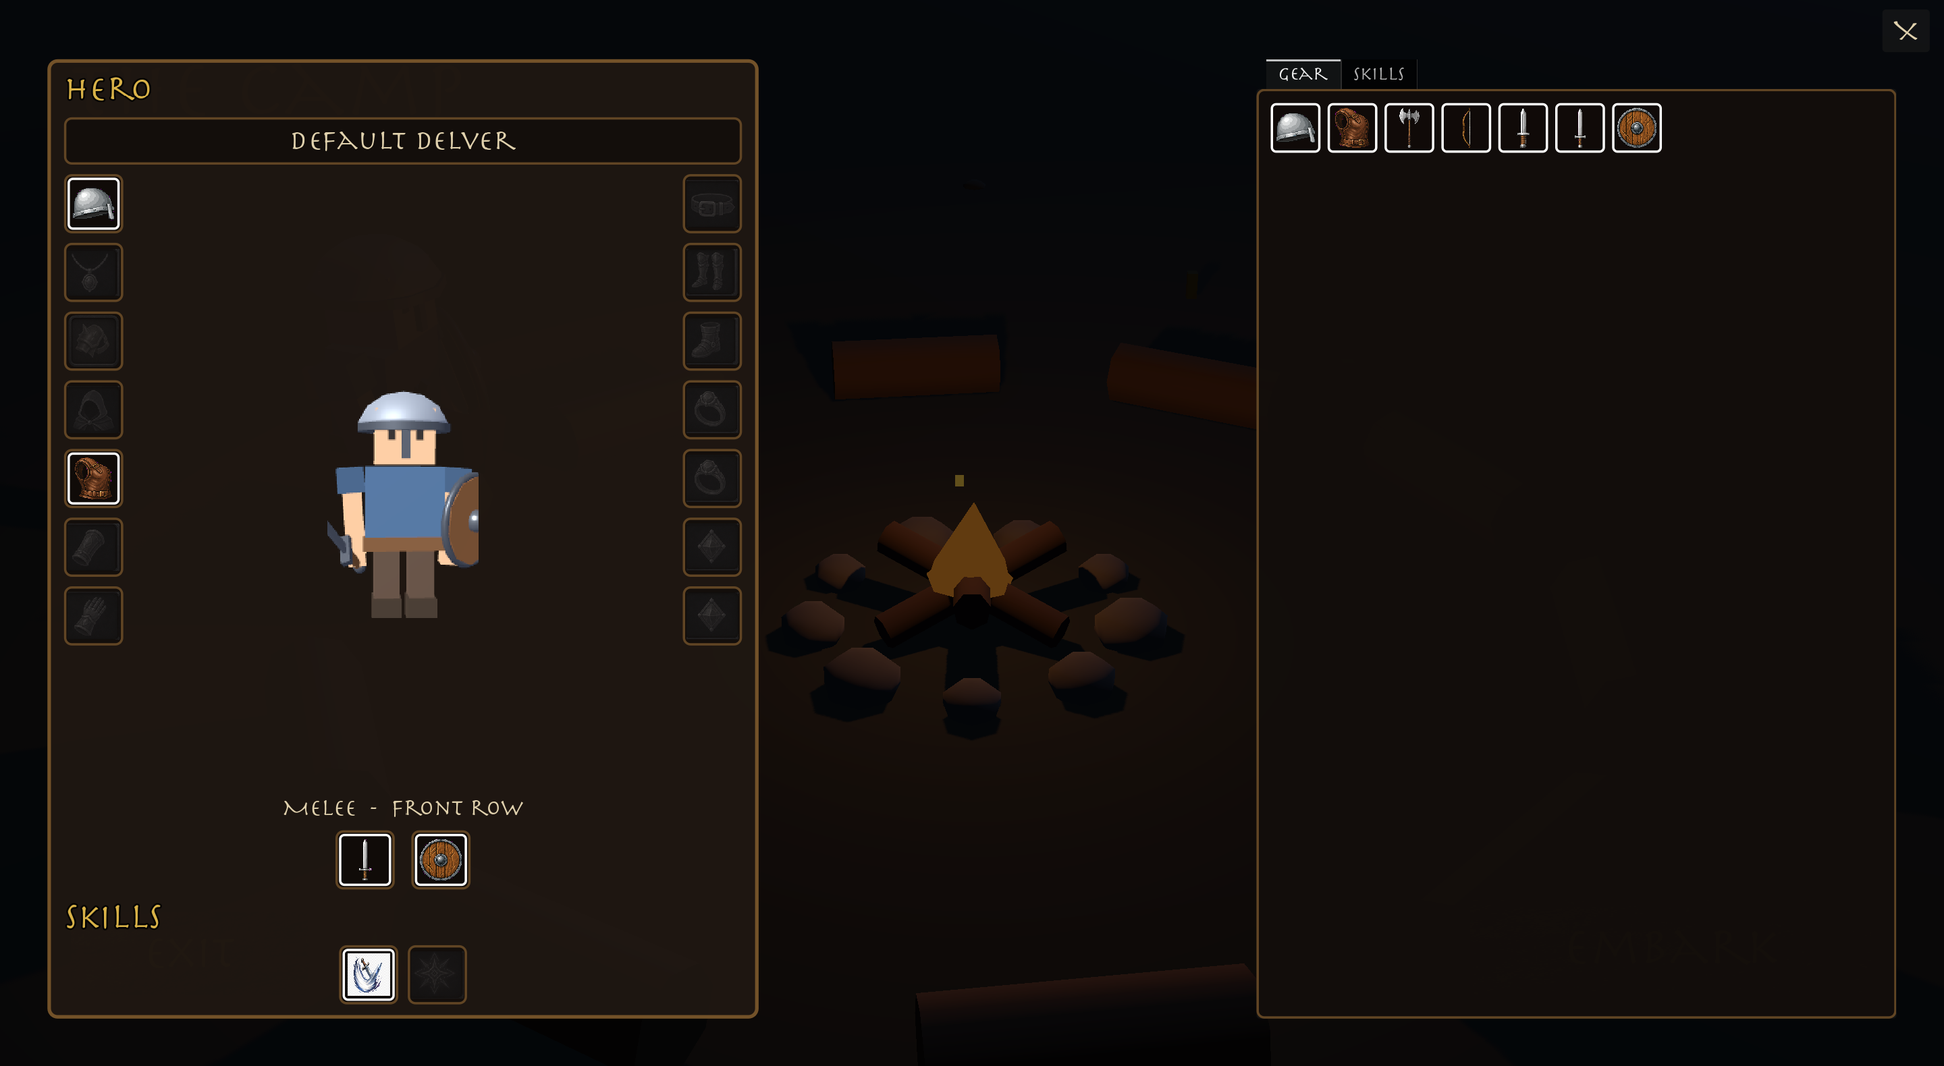
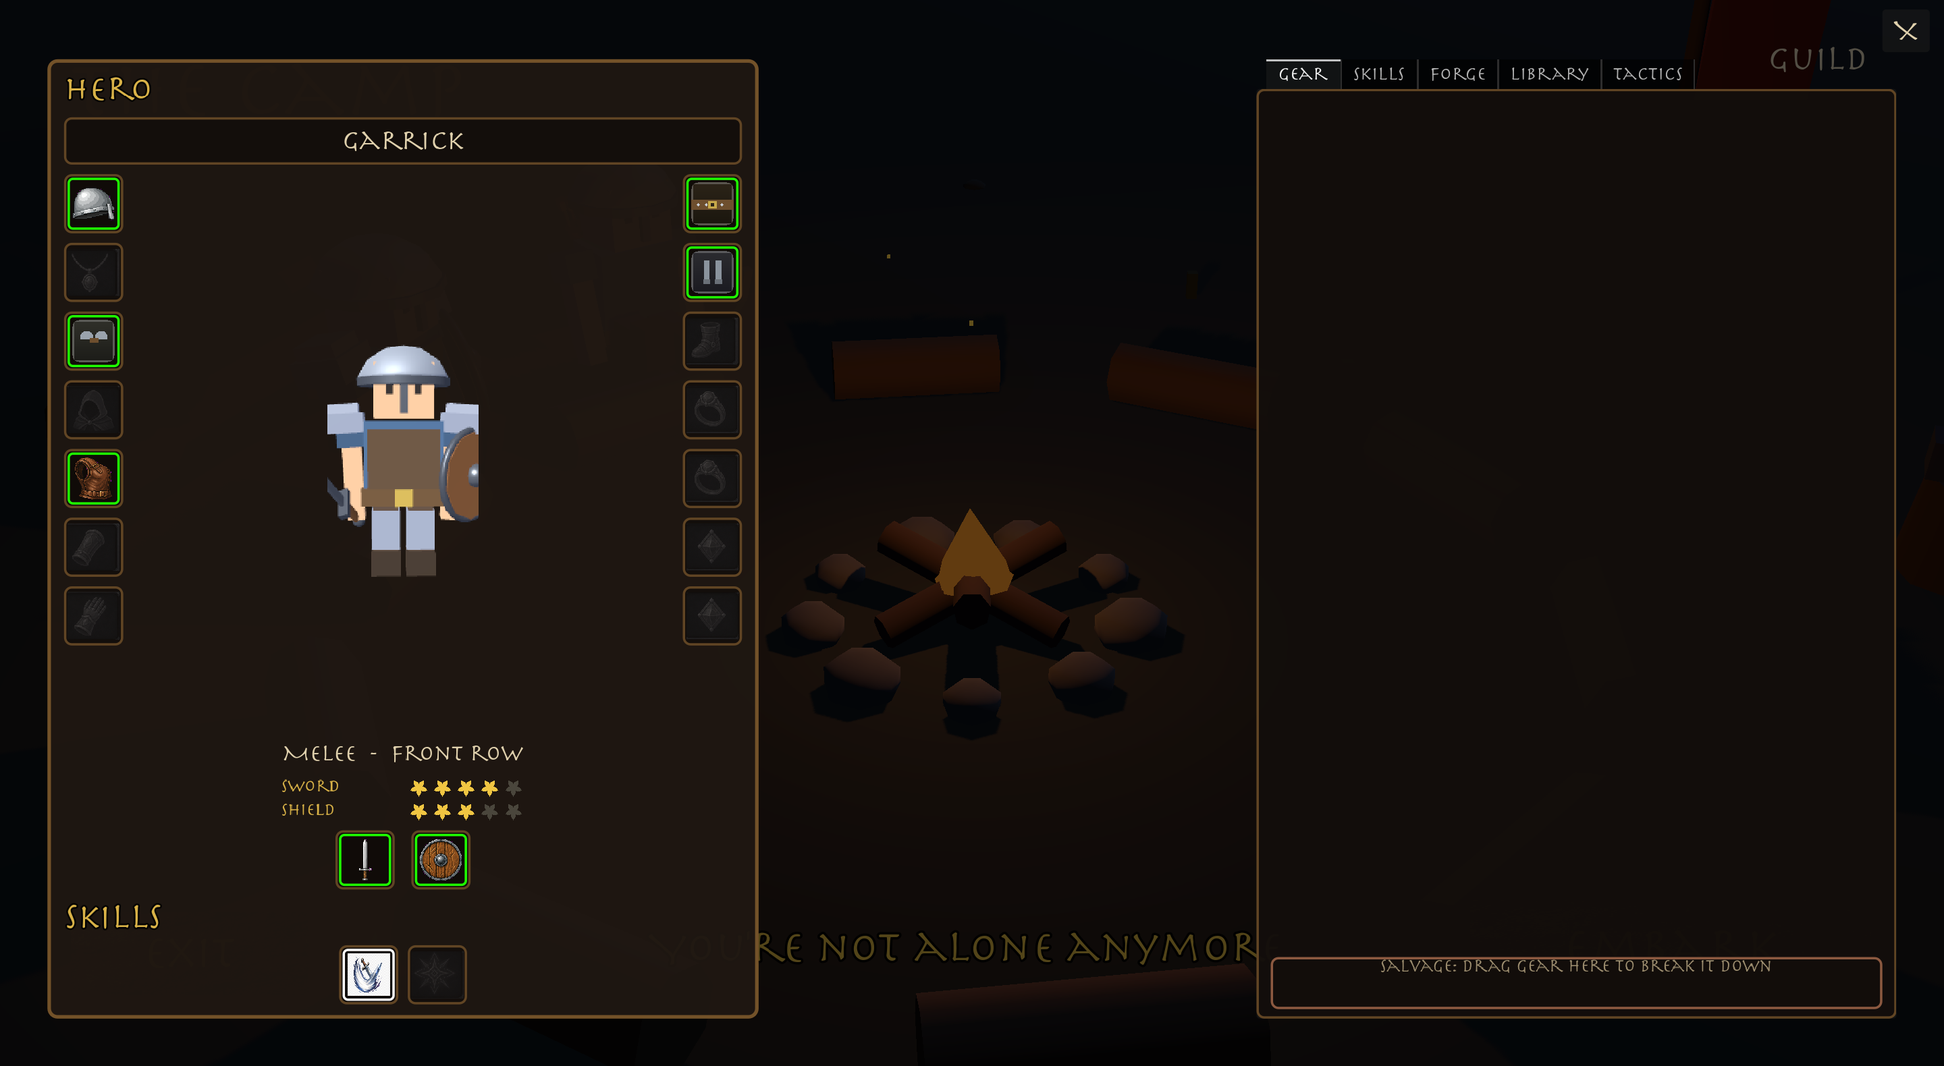
README: the guild as it stands today.
Every screenshot regenerated from the live game: the ruined menu
clearing, the restored camp with two delvers, the Darkwood and the
Nest mid-fight (swarm, badges, Renew ring and all), and the five camp
tabs - loadout with mastery stars and worn gear, the Forge, the
Library, Tactics with the Doctrine Editor, and the Guild. Both GIFs
re-recorded under the current theming. The 2D-era loadout gallery
retired.

Content rewritten to match the game: mastery, doctrines-as-loot and
the editor, dungeon lessons and tiers, the knowledge economy with
salvaging and provenance, guild restoration, the long-tutorial loop
paragraph, a cast section split by dungeon (the Brood Tender earns
its render), a summary content table, and an honest roadmap with the
Scratch/Notebook phases marked planned-engine-ready.

diff --git a/README.md b/README.md
@@ -20,17 +20,19 @@ Fifty-six seconds, captured entirely from the live game: the abandoned camp, the
 
 ![Combat theater](docs/screenshots/battle.png)
 
-| Hero loadout | Item tooltip |
-|--------------|--------------|
-| ![Hero loadout](docs/screenshots/loadout_open.png) | ![Item tooltip](docs/screenshots/loadout_tooltip.png) |
+![The Spider Nest](docs/screenshots/battle_nest.png)
 
-| Two-handed weapon blocks the off-hand | Dual-wield |
-|---------------------------------------|------------|
-| ![Bow equipped](docs/screenshots/loadout_equipped_bow.png) | ![Dual-wield](docs/screenshots/loadout_dualwield.png) |
+| Hero loadout & mastery | The Forge |
+|------------------------|-----------|
+| ![Hero loadout](docs/screenshots/loadout_open.png) | ![The Forge](docs/screenshots/forge.png) |
 
-| Click-to-carry an item |
-|------------------------|
-| ![Carrying an item](docs/screenshots/loadout_carry.png) |
+| The Library | Tactics & the Doctrine Editor |
+|-------------|-------------------------------|
+| ![The Library](docs/screenshots/library.png) | ![Tactics](docs/screenshots/tactics.png) |
+
+| The Guild |
+|-----------|
+| ![The Guild](docs/screenshots/guild.png) |
 
 ## In Motion
 
@@ -44,19 +46,38 @@ Fifty-six seconds, captured entirely from the live game: the abandoned camp, the
 
 ## Meet the Cast
 
-| Default Delver (melee) | Default Delver (archer) | Goblin Archer | Goblin Warrior | Green Slime | Venomous Spider | Slime King |
-|:--:|:--:|:--:|:--:|:--:|:--:|:--:|
-| <img src="docs/screenshots/cast_delver.png" height="170" alt="Default Delver melee"> | <img src="docs/screenshots/cast_delver_archer.png" height="170" alt="Default Delver archer"> | <img src="docs/screenshots/cast_goblin_archer.png" height="150" alt="Goblin Archer"> | <img src="docs/screenshots/cast_goblin_warrior.png" height="150" alt="Goblin Warrior"> | <img src="docs/screenshots/cast_green_slime.png" height="110" alt="Green Slime"> | <img src="docs/screenshots/cast_venomous_spider.png" height="110" alt="Venomous Spider"> | <img src="docs/screenshots/cast_slime_king.png" height="150" alt="Slime King"> |
-| Sword-and-board melee | Bow-wielding ranged | Owns wood & strings | Owns iron & leather | Owns gel & ooze | Owns poison; its bite envenoms | Boss of the first delve |
+| Fresh recruit (melee) | Fresh recruit (archer) | Veteran, fully kitted |
+|:--:|:--:|:--:|
+| <img src="docs/screenshots/cast_delver.png" height="170" alt="Delver, melee"> | <img src="docs/screenshots/cast_delver_archer.png" height="170" alt="Delver, archer"> | <img src="docs/screenshots/cast_delver_kitted.png" height="170" alt="Kitted delver"> |
+| One sword, one recipe | Wren arrives after the banner rises | Every worn slot renders on the body |
+
+**The Darkwood** — its threat is steel; its gear is armor:
+
+| Goblin Archer | Goblin Warrior | Green Slime | Venomous Spider | Slime King |
+|:--:|:--:|:--:|:--:|:--:|
+| <img src="docs/screenshots/cast_goblin_archer.png" height="140" alt="Goblin Archer"> | <img src="docs/screenshots/cast_goblin_warrior.png" height="140" alt="Goblin Warrior"> | <img src="docs/screenshots/cast_green_slime.png" height="100" alt="Green Slime"> | <img src="docs/screenshots/cast_venomous_spider.png" height="100" alt="Venomous Spider"> | <img src="docs/screenshots/cast_slime_king.png" height="140" alt="Slime King"> |
+| Owns wood & strings | Owns iron & leather | Owns gel & ooze | Owns poison | Boss; guards the map below |
+
+**The Spider Nest** — its poison ignores armor; its gear resists it. Its lesson: kill the spawner or drown:
+
+| Nest Spiderling | Web Weaver | Chitin Crawler | Brood Tender | The Broodmother |
+|:--:|:--:|:--:|:--:|:--:|
+| <img src="docs/screenshots/cast_nest_spiderling.png" height="90" alt="Nest Spiderling"> | <img src="docs/screenshots/cast_web_weaver.png" height="110" alt="Web Weaver"> | <img src="docs/screenshots/cast_chitin_crawler.png" height="120" alt="Chitin Crawler"> | <img src="docs/screenshots/cast_brood_tender.png" height="120" alt="Brood Tender"> | <img src="docs/screenshots/cast_broodmother.png" height="140" alt="The Broodmother"> |
+| The swarm | Its silk roots you | Armored; owns chitin | Births spiderlings mid-fight | Boss of the deep |
 
 ## Features
 
 - **Spatial combat simulation** — Heroes and enemies fight on a tile-based battlefield: units path toward their targets (A* + soft separation), attacks are gated on weapon/skill range and line of sight, ranged attacks wind up standing still, and enemies pick targets from threat tables. Combat runs headlessly and produces a full event log.
 - **3D theater playback** — Combat results replay in a low-poly 3D battle scene built entirely from procedural primitive-mesh rigs: units walk (or hop) along their logged paths, melee swings land on the damage beat, archers draw and loose visible arrows, deaths crumple into corpses, and target arrows + floating damage numbers keep it readable. A camera follows the fight.
 - **Battle UI** — Side panels show each team's units (portrait, name, health and mana) plus a live damage/DPS meter, keeping the battlefield itself free of floating nameplates.
-- **Data-driven units** — Heroes and enemies are defined as Godot resources (`.tres`) with stats, skills, and linked actor scenes.
+- **Data-driven everything** — Heroes, enemies, gear, skills, recipes, affixes, materials, and whole dungeons are Godot resources (`.tres`); the procedural rigs dress themselves from the data.
+- **Discipline Mastery** — No classes: the worn loadout trains its disciplines (Sword, Shield, Bow, Restoration) one room at a time. Stars unlock core techniques (Cleave, Whirlwind, Multishot, Shield Wall...) that join combat automatically, plus small passives. Unpracticed disciplines rust — but the highest star ever earned never fades, and relearning is three times faster. Every delver's history is readable in their star rows.
+- **Tactics & Battlefield Doctrines** — Per-hero targeting directives (Nearest Foe, Finish the Wounded, Focus Order, Spread the Venom, Guard the Line, Protect the Healer) recovered as doctrine tomes from the enemies that practice them, plus a party-wide sortable focus order listing only enemies the guild has faced. Once a Battlefield Doctrine tome grants node capacity, the **Doctrine Editor** opens: WHEN/THEN rules over the same behaviour-tree engine the built-in tactics run on — the seed of future visual-block and scripting interfaces.
+- **Crafting & the knowledge economy** — Monsters drop resources and knowledge, never useful equipment: per-enemy material identities, recipes and affixes as named tomes with provenance and lore, expedition logs recovered in story order, and salvaging that teaches unknown enchantments. Boss trophies always carry an affix — wield it, or break it to learn it.
+- **Dungeons with lessons** — Each dungeon has a threat, an answer found inside it, and a lesson: the Darkwood's steel is answered by armor; the Nest's armor-ignoring poison by resist gear, its Brood Tenders by focus fire and AoE. Difficulty tiers (unlocked by clearing) raise foes and spoils — materials, rarity odds, tier-gated recipes — never raw item level.
+- **The Guild** — First victory raises the banner and the first companion sits down at the fire. Material-funded restoration unlocks skill slots and delvers; the camp itself visibly rebuilds (banner, anvil, training dummy) as the guild earns it.
 - **Full game loop** — Main menu → camp → battle → back to camp. The camp and menu share a campfire stage where your unlocked heroes sit at random seats around a smoldering, animated fire that grows with the party's deeds. Soft ground shadows sit under every actor at camp and in battle. Entering camp from the menu plays a zoom-and-fade transition, and the party keeps their seats across it.
-- **Hero loadout** — Hover a hero at camp for a golden outline and nameplate, then click to open their loadout: a live paper-doll preview with flanking equipment columns, a weapon row, and a skill row; tabbed gear and skill catalogs; and a shared stash sorted by slot and rarity. Head gear layers cleanly — full helms hide the hero's hair, open pieces like circlets leave it visible. Off-hand weapons render on a mirrored pivot beside the body (separate from the main-hand arm). Move items by drag-and-drop or click-to-carry (handy on a trackpad). Dropping gear on the hero panel auto-equips it; right-click equips from the stash or unequips worn gear. Weapons show a damage range, swing speed, and average DPS in a two-column tooltip, with equipped-gear comparison in a separate panel. Dual-wielding a one-handed weapon in each hand adds off-hand swings at 50% damage. A bow or two-hander blocks the off-hand slot with a dimmed ghost. Equipping a bow turns a hero into a back-row archer; melee weapons keep them in the front row — changes that carry straight into the next battle — and persist to disk.
+- **Hero loadout** — Click a hero at camp for their five-tab screen: Gear (live 3D preview, drag-and-drop or click-to-carry, tooltips with equipped comparison, a salvage bin), Skills (mastery-owned cores shown dimmed with their star requirements; guild techniques slot freely), Forge, Library, and Tactics. Worn gear renders on the body — pauldrons, cloak, plate, greaves, and the rest. Equipping a bow makes a back-row archer; dual-wielding staggers alternating swings; everything persists to disk.
 - **Sound** — Procedurally synthesized placeholder audio: looping menu and combat themes, fire-crackle ambience, a creaking sign, UI hover/click feedback, and combat hits, swings, and bow shots. Mixed through Master/Music/SFX/Ambience buses.
 - **Settings** — Fullscreen toggle and four volume sliders, persisted to disk and applied on startup.
 
@@ -74,7 +95,7 @@ Delvers is a party-based dungeon crawler where you send heroes — your *delvers
 4. **Theater** — Results play back as a staged battle scene.
 5. **Rewards** — Collect loot, experience, and progress deeper.
 
-The loop is playable: you start with a single delver (one bonus skill slot — more through future meta progression) and embark on a **delve of ten escalating rooms** ending at the **Slime King's lair**, health carrying between rooms, each room flowing into the next automatically. **Monsters drop resources and knowledge, not equipment**: every enemy has a material identity (goblins carry ash wood and bow strings, slimes ooze gel and acid), recipes drop rarely as permanent unlocks, and finished gear is a memorable fluke — or a boss trophy. Back at camp, the **Forge** turns materials plus known recipes into intentional equipment (item level and quality set by the recipe). Materials are consumed; knowledge is permanent. Everything persists to disk.
+The loop is playable across **two dungeons and five difficulty tiers each**: found the guild with one delver and one recipe, delve the Darkwood's ten rooms to the Slime King, recover the map he guards, and descend into the Spider Nest — where the Broodmother waits behind swarms only focus fire and AoE survive. **Monsters drop resources and knowledge, never equipment**; the Forge turns them into the exact gear each dungeon demands; mastery grows in whatever your delvers practice; doctrines, affixes, expedition logs, and even tactical complexity itself are recovered, one tome at a time. The whole game is one long tutorial of a lost guild's knowledge — steady discovery, never a menu of futures. Everything persists to disk (and Settings can burn the ledger for a fresh founding day).
 
 ### Combat Design
 
@@ -83,11 +104,11 @@ Combat is **auto-battler** style: units act on attack timers rather than player 
 - **Health and mana** — Base stats from their template resource; health carries between delve rooms (attrition).
 - **Attack interval** — How often they swing. For heroes, the main-hand weapon's swing speed sets this interval when equipped.
 - **Position and movement** — A spot on the battle grid; units path toward targets with A* and soft separation, and stop at striking distance.
-- **Skills** — Data-driven abilities with ranges, cooldowns, status effects, and behavior scripts (Frost Nova roots, Hamstring slows, Charge gap-closes, Heal mends).
+- **Skills** — Fifteen data-driven techniques with ranges, cooldowns, mana, statuses, and behavior scripts — from Cleave and Whirlwind through Thunderclap (AoE daze + triple threat), Renew, Shield Wall, Multishot, Piercing Shot, Battle Shout, and Rally. Core techniques are earned through mastery; guild techniques slot freely.
 
 Damage is rolled as `base_attack + random(skill.min_damage, skill.max_damage)` for skills, plus a per-swing weapon damage roll for equipped weapons. Combat ends when one side is wiped out.
 
-**Spatial targeting** — Attacks are gated on weapon/skill range and line of sight: melee closes in before swinging, archers stop and wind up in place, and nobody shoots through pillars. Enemies pick targets from **threat tables** (damage and heals generate threat; a rooted enemy falls through to whoever is in range), while heroes engage the nearest foe.
+**Spatial targeting** — Attacks are gated on weapon/skill range and line of sight: melee closes in before swinging, archers stop and wind up in place, and nobody shoots through pillars. Enemies pick targets from **threat tables** (damage and heals generate threat; a rooted enemy falls through to whoever is in range), while heroes follow their tactic — or their hand-written doctrine.
 
 **The delve** — Ten rooms of escalating packs and enemy levels across an arena pool (open field, pillared hall, choke-point wall, scattered rocks), ending at the Slime King. Every enemy rolls a level that scales its health and attack, shown in its name (e.g. *Green Slime Lv 2*). Rooms flow into each other automatically; death or triumph banks the spoils either way.
 
@@ -105,33 +126,29 @@ This lets combat run instantly in the background (useful for fast-forward, AI te
 
 ### Content Pipeline
 
-New units and abilities are added without code changes:
+New content is data plus (sometimes) a small behavior script:
 
-1. Create an **actor scene** in `scenes/theater/actors/` (sprite, animations, HP bar).
-2. Define a **template resource** in `resources/heroes/` or `resources/enemies/` (stats, skills, actor link).
-3. Define **skills** in `resources/skills/` (damage, targeting, behavior script).
-4. Reference them in combat setup or future dungeon encounter tables.
-
-The `SkillDefinition` class already supports attack/spell/support types, cast times, AoE targeting, cooldowns, and custom behavior scripts — most of these are wired up for future skills beyond the current auto-attack.
+1. **Enemies** — a template `.tres` (stats, skills, material/recipe/affix/doctrine loot identities) plus a rig mapping in the actor factory (most reuse the delver/slime/spider rig families with palette options).
+2. **Skills** — a `.tres` plus a `static func try_use(state, caster, skill)` behavior script.
+3. **Gear, recipes, affixes, materials, lore** — pure `.tres`, registered by id.
+4. **Dungeons** — a single `DungeonDefinition` resource: pools, guaranteed farmable anchors, boss pack, loot band, theme, and lore series. A new dungeon is a data file and a handful of enemies.
 
 ### Current State vs. Roadmap
 
 | Area | Status |
 |------|--------|
-| Spatial combat simulation (movement, range/LoS, threat, skills) | Working |
-| 3D theater playback (procedural low-poly rigs) | Working |
-| ~~Formation slots~~ | Replaced by spatial positioning |
-| Game loop (menu → camp → battle → camp) | Working |
-| Hero loadout (equipment, skills, naming) | Working (session-only, no save yet) |
-| Camp upgrades / recruiting | Not started |
-| Delve (10 escalating rooms, arena variety) | Working |
-| Loot drops + spoils screen | Working |
-| Save / persistence | Working |
-| Crafting (materials, recipes, the Forge) | Working (slice 1 — affixes and salvaging planned) |
-| Dungeon boss (Slime King) | Working |
-| Skills (root/slow/charge/heal + auto-attacks) | Working, equippable via loadout |
-| Sound | Procedural placeholder audio with settings (no composed music yet) |
-| Settings | Fullscreen + volume sliders working |
+| Spatial combat (movement, range/LoS, threat, reinforcements) | Working |
+| 3D theater (procedural rigs, worn gear, status badges, skill showpieces) | Working |
+| Two dungeons with lessons, bosses, and difficulty tiers I–V | Working |
+| Crafting: materials, recipes, affixes, salvaging, provenance | Working |
+| Discipline Mastery (practice, rust, star-gated techniques) | Working |
+| Tactics, doctrines-as-loot, the Doctrine Editor | Working |
+| Guild restoration (companions, skill slots, camp rebuilding) | Working |
+| Save / persistence (+ Reset Save) | Working |
+| Scratch-style block editor + "View Code" | Planned (engine ready) |
+| Engineer's Notebooks (scripting as recovered knowledge) | Planned |
+| Dungeon 3 (threat/answer/lesson pending design) | Planned |
+| Sound | Procedural placeholder audio (no composed music yet) |
 
 ## Requirements
 
@@ -157,7 +174,9 @@ The `SkillDefinition` class already supports attack/spell/support types, cast ti
 |-------|------|--------------|
 | Combat simulation | `scenes/combat/combat_simulation.tscn` | Runs a headless fight and prints the combat log |
 | Battle theater | `scenes/theater/battle_theater_3d.tscn` | Simulates a fight and plays it back in the 3D battle scene |
-| Screenshot capture | `capture/shots.tscn`, `capture/cast.tscn`, `capture/loadout_shot.tscn` | Regenerates the README screenshots and unit renders into `docs/screenshots/` |
+| Screenshot capture | `capture/readme_shots.tscn`, `capture/cast3d_shot.tscn` | Regenerates the README screenshots and cast renders into `docs/screenshots/` |
+| Trailer | `capture/trailer_shot.tscn` + `capture/make_trailer.sh` | Re-renders the Chapter One trailer (Movie Maker mode, 30 fps + audio) |
+| Test suite | `capture/test_*.tscn` (35+ scenes) | Sim, economy, mastery, doctrine, and UI regression tests |
 
 ## Project Structure
 
@@ -192,27 +211,17 @@ Combat is split into two layers:
 
 ## Current Content
 
-| Type   | ID             | Name           | Stats |
-|--------|----------------|----------------|-------|
-| Hero   | Default Delver | Default Delver | 100 HP, 10 mana, 1 ATK; weapon speed sets interval; front or back row by loadout |
-| Enemy  | green_slime    | Green Slime    | 25 HP, 1 ATK, 4.0s interval, front row |
-| Enemy  | goblin_archer  | Goblin Archer  | 20 HP, 2 ATK, 3.5s interval, back row, ranged |
-| Skill  | auto_attack    | Slash          | 0–9 bonus damage, melee |
-| Skill  | arrow_shot     | Arrow Shot     | 1–7 bonus damage, projectile |
-| Skill  | frost_nova     | Frost Nova     | Roots everything within 96px for 3s, 10s cooldown |
-| Skill  | hamstring      | Hamstring      | Melee strike, slows 50% for 6s, 8s cooldown |
-| Skill  | charge         | Charge         | Gap-closer up to 400px, stuns 1.5s, 12s cooldown |
-| Skill  | heal           | Heal           | Restores 8–12 to the most injured ally in sight, 6s cooldown |
-| Gear   | starter_sword  | Starter Sword  | Main hand, one-handed, 1–3 dmg, 2.6s speed |
-| Gear   | starter_bow    | Starter Bow    | Main hand, bow, 1–4 dmg, 2.8s speed |
-| Gear   | fast_dagger    | Fast Dagger    | Main hand, one-handed, 1–2 dmg, 1.5s speed |
-| Gear   | heavy_axe      | Heavy Axe      | Main hand, two-handed, 4–9 dmg, 3.4s speed |
-| Gear   | starter_shield | Starter Shield | Off hand, +10 HP |
-| Gear   | starter_helmet | Starter Helmet | Head, +5 HP |
-| Gear   | starter_armor  | Starter Armor  | Chest, +15 HP |
-| Enemy  | goblin_warrior | Goblin Warrior | Melee bruiser; drops iron scrap and leather |
-| Enemy  | venomous_spider | Venomous Spider | Fast skitterer from room 3; venom bite poisons, drops poison sacs |
-| Enemy  | slime_king     | Slime King     | Boss of room 10: crowned, royal purple, always drops rare |
+| Kind | Count | Notes |
+|------|-------|-------|
+| Dungeons | 2 | The Darkwood, The Spider Nest — five difficulty tiers each |
+| Enemies | 9 | incl. two bosses (Slime King, The Broodmother) and the spawning Brood Tender |
+| Techniques | 15 | 9 mastery-owned cores + guild techniques (Charge, Heal, Battle Shout, Rally) |
+| Disciplines | 4 | Sword, Shield, Bow, Restoration — five stars each |
+| Recipes | 15 | every gear slot craftable, tier-gated coverage per dungeon |
+| Affixes | 5 | Virulent, Frostforged, Flaming, Quick, Guarding — learnable, salvage-studied |
+| Materials | 12 | each owned by an enemy; bosses drop the royal ones |
+| Doctrines | 6 tactics + 3 capacity tiers | recovered, never listed before they're found |
+| Lore | 8 expedition-log fragments | the Black Hollow's trail, foreshadowing what's still buried |
 
 ## License
 
